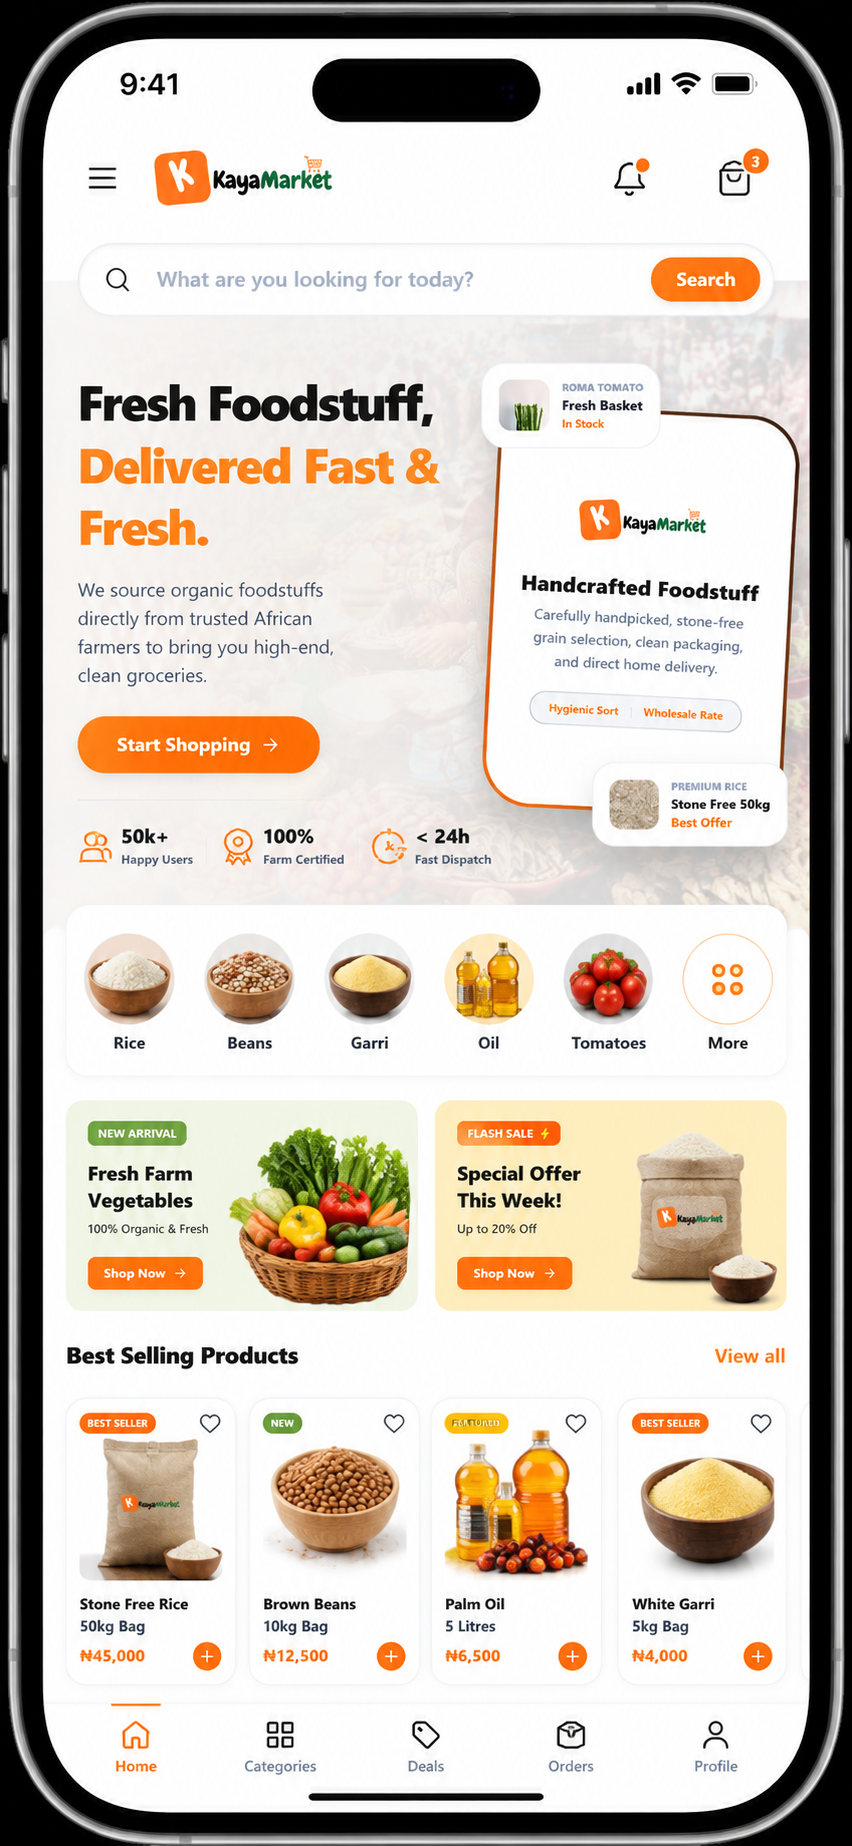
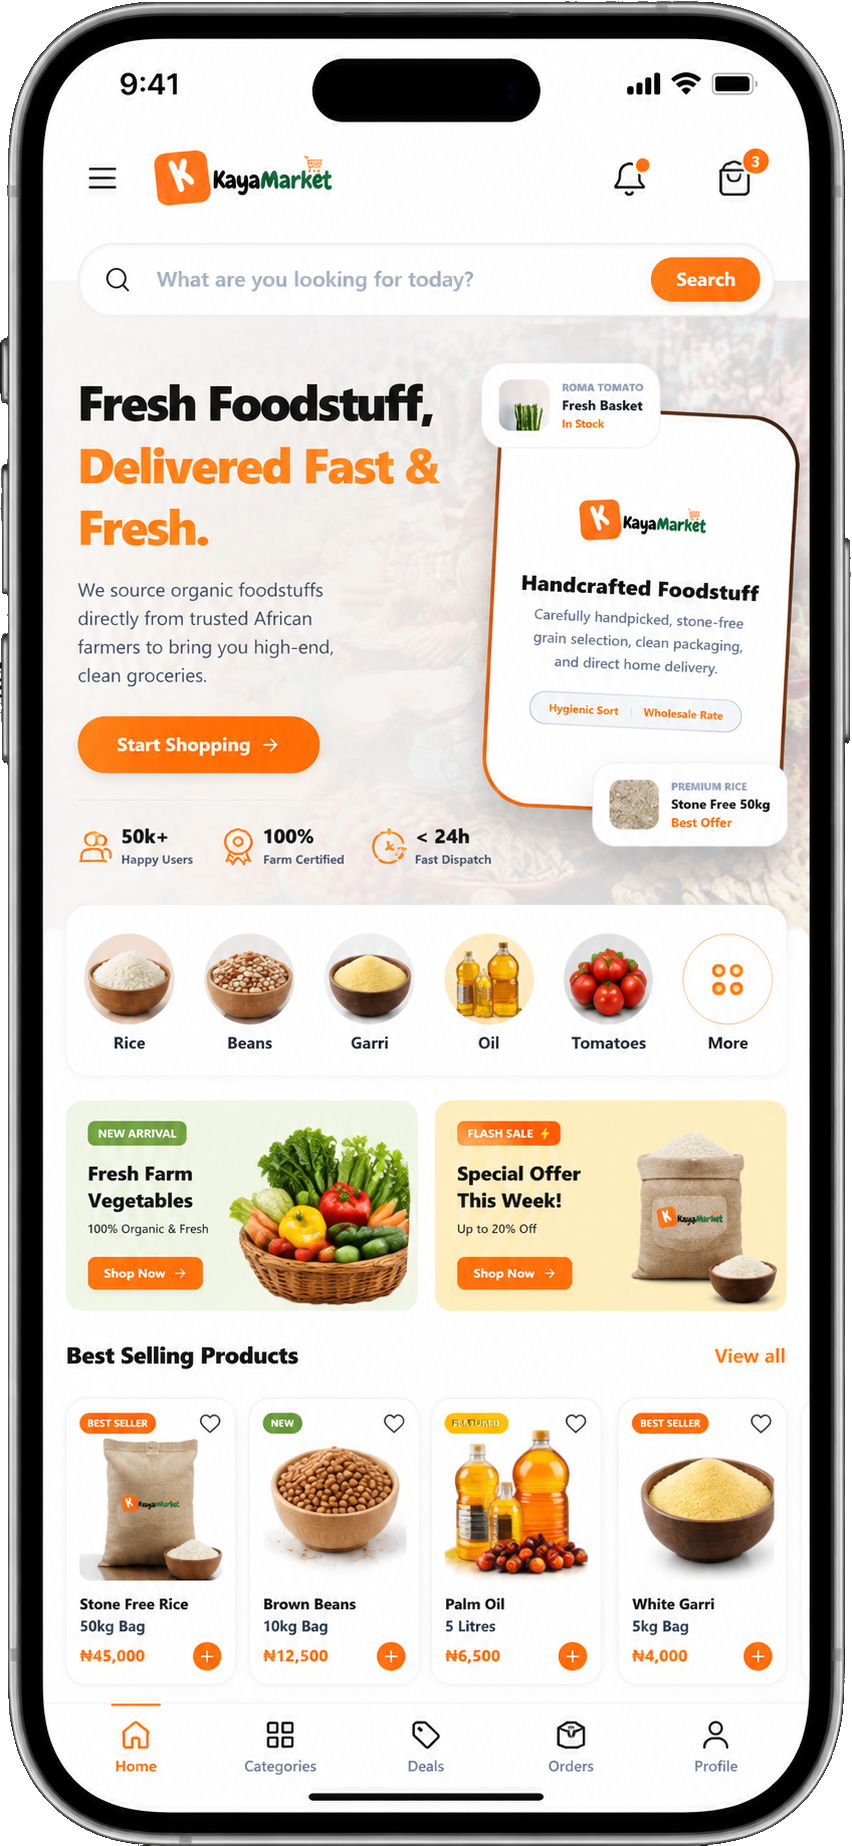
Refine mobile app section: transparent background, Framer Motion floating animation, realistic shadow, and ambient Kaya orange glow

diff --git a/src/app/(customer)/HomeClient.tsx b/src/app/(customer)/HomeClient.tsx
@@ -3,6 +3,7 @@
 import React, { useState, useEffect } from "react";
 import Link from "next/link";
 import Image from "next/image";
+import { motion } from "framer-motion";
 import { useRouter } from "next/navigation";
 import { 
   Search, 
@@ -769,17 +770,60 @@ export default function HomeClient({ initialProducts, initialCategories, homepag
             </div>
 
             {/* Graphic Mockup Panel */}
-            <div className="lg:col-span-5 relative flex justify-center">
-              <div className="relative flex justify-center items-center">
-                <Image
-                  src="/t-1.png"
-                  alt="KayaMarket Mobile App Mockup"
-                  width={852}
-                  height={1846}
-                  loading="lazy"
-                  className="w-auto h-[450px] sm:h-[500px] max-w-full object-contain drop-shadow-2xl hover:scale-105 transition-transform duration-500"
+            <div className="lg:col-span-5 relative flex justify-center items-center py-6">
+              {/* Outer Entrance Scroll Container */}
+              <motion.div
+                initial={{ opacity: 0, x: 60, scale: 0.95 }}
+                whileInView={{ opacity: 1, x: 0, scale: 1 }}
+                viewport={{ once: true, amount: 0.3 }}
+                transition={{
+                  duration: 0.9,
+                  ease: [0.16, 1, 0.3, 1],
+                }}
+                className="relative flex flex-col items-center justify-center group"
+              >
+                {/* Ambient Kaya Orange Glow */}
+                <div className="absolute w-72 h-72 sm:w-80 sm:h-80 bg-[#FF6A00]/15 rounded-full filter blur-[80px] pointer-events-none -z-10 animate-pulse-slow"></div>
+
+                {/* Floating Phone Container */}
+                <motion.div
+                  animate={{
+                    y: [0, -14, 0],
+                    rotate: [0, 1.2, -1.2, 0],
+                  }}
+                  transition={{
+                    duration: 5.5,
+                    repeat: Infinity,
+                    ease: "easeInOut",
+                  }}
+                  whileHover={{ y: -8, scale: 1.02 }}
+                  className="relative z-10 flex justify-center items-center cursor-pointer transition-transform duration-300"
+                >
+                  <Image
+                    src="/t-1.png"
+                    alt="KayaMarket Mobile App Mockup"
+                    width={852}
+                    height={1846}
+                    loading="lazy"
+                    priority={false}
+                    className="w-auto h-[460px] sm:h-[500px] lg:h-[540px] max-w-full object-contain filter drop-shadow-[0_20px_35px_rgba(0,0,0,0.18)]"
+                  />
+                </motion.div>
+
+                {/* Soft Realistic Floating Shadow Beneath Phone */}
+                <motion.div
+                  animate={{
+                    scale: [1, 0.82, 1],
+                    opacity: [0.25, 0.12, 0.25],
+                  }}
+                  transition={{
+                    duration: 5.5,
+                    repeat: Infinity,
+                    ease: "easeInOut",
+                  }}
+                  className="w-48 sm:w-56 h-5 bg-slate-900/30 rounded-[100%] filter blur-md mt-2 pointer-events-none"
                 />
-              </div>
+              </motion.div>
             </div>
 
           </div>
